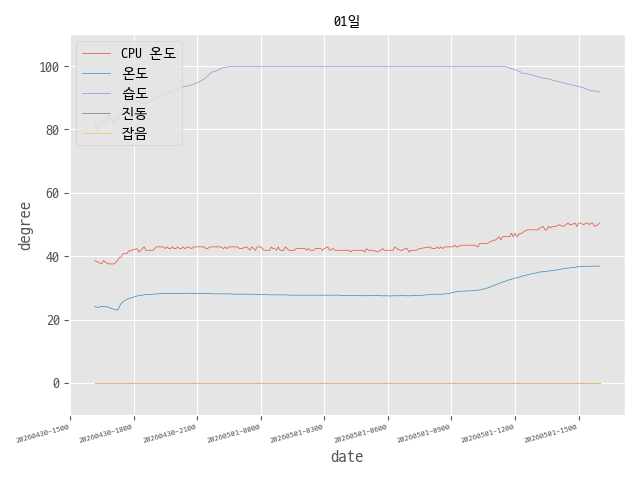
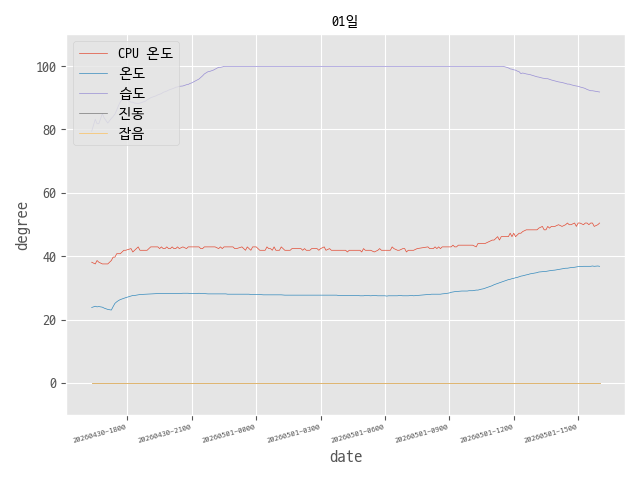
monitor_20260501 16:17

diff --git a/index.html b/index.html
@@ -1,1 +1,1 @@
-<!doctype html><html><head><meta charset="utf-8"><meta https-equiv="refresh" content="120"><title>TH01 환경 측정 데이터</title></head><body><h1>TH01 환경 측정 데이터</h1><br><h2>측정시간 : 20260501-1602</h2><table border = "1"><tr><td><img src=https://redfivezero.github.io/th01/monitor-01D.png></td><td><img src=https://redfivezero.github.io/th01/monitor-03D.png></td><td><img src=https://redfivezero.github.io/th01/monitor-05D.png></td></tr><tr><td><img src=https://redfivezero.github.io/th01/monitor-10D.png></td><td><img src=https://redfivezero.github.io/th01/monitor-30D.png></td><td><img src=https://redfivezero.github.io/th01/monitor-90D.png></td></tr></table<table border = "1"><tr><td><img src=https://redfivezero.github.io/th01/monitor-01D-wol.png></td><td><img src=https://redfivezero.github.io/th01/monitor-03D-wol.png></td><td><img src=https://redfivezero.github.io/th01/monitor-05D-wol.png></td></tr><tr><td><img src=https://redfivezero.github.io/th01/monitor-10D-wol.png></td><td><img src=https://redfivezero.github.io/th01/monitor-30D-wol.png></td><td><img src=https://redfivezero.github.io/th01/monitor-90D-wol.png></td></tr></table/<body></html>
+<!doctype html><html><head><meta charset="utf-8"><meta https-equiv="refresh" content="120"><title>TH01 환경 측정 데이터</title></head><body><h1>TH01 환경 측정 데이터</h1><br><h2>측정시간 : 20260501-1617</h2><table border = "1"><tr><td><img src=https://redfivezero.github.io/th01/monitor-01D.png></td><td><img src=https://redfivezero.github.io/th01/monitor-03D.png></td><td><img src=https://redfivezero.github.io/th01/monitor-05D.png></td></tr><tr><td><img src=https://redfivezero.github.io/th01/monitor-10D.png></td><td><img src=https://redfivezero.github.io/th01/monitor-30D.png></td><td><img src=https://redfivezero.github.io/th01/monitor-90D.png></td></tr></table<table border = "1"><tr><td><img src=https://redfivezero.github.io/th01/monitor-01D-wol.png></td><td><img src=https://redfivezero.github.io/th01/monitor-03D-wol.png></td><td><img src=https://redfivezero.github.io/th01/monitor-05D-wol.png></td></tr><tr><td><img src=https://redfivezero.github.io/th01/monitor-10D-wol.png></td><td><img src=https://redfivezero.github.io/th01/monitor-30D-wol.png></td><td><img src=https://redfivezero.github.io/th01/monitor-90D-wol.png></td></tr></table/<body></html>